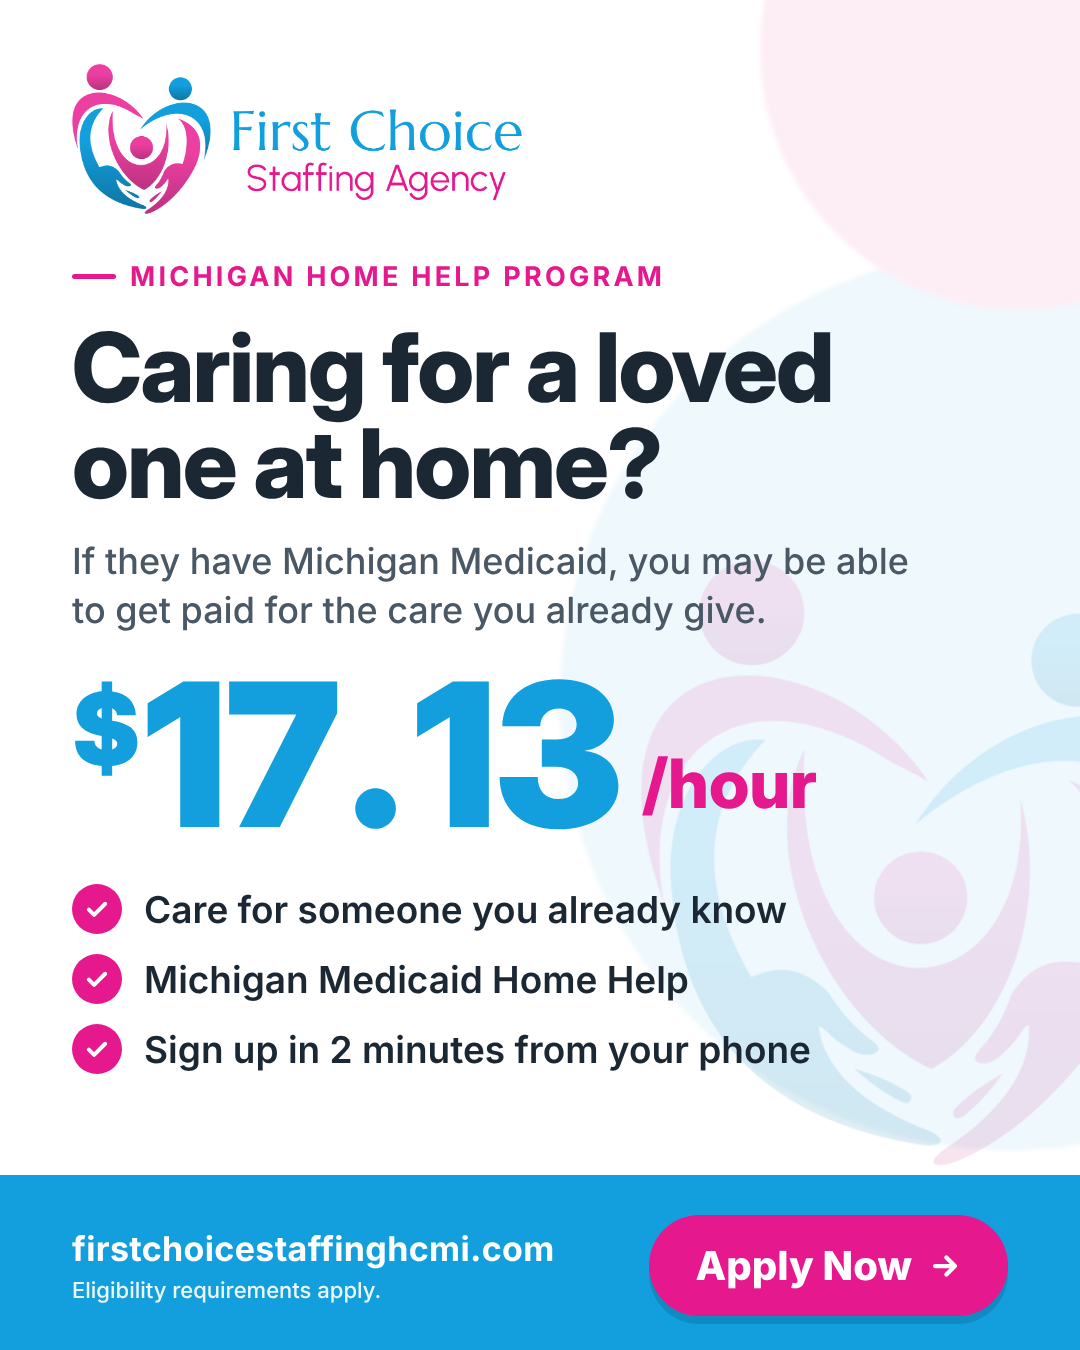
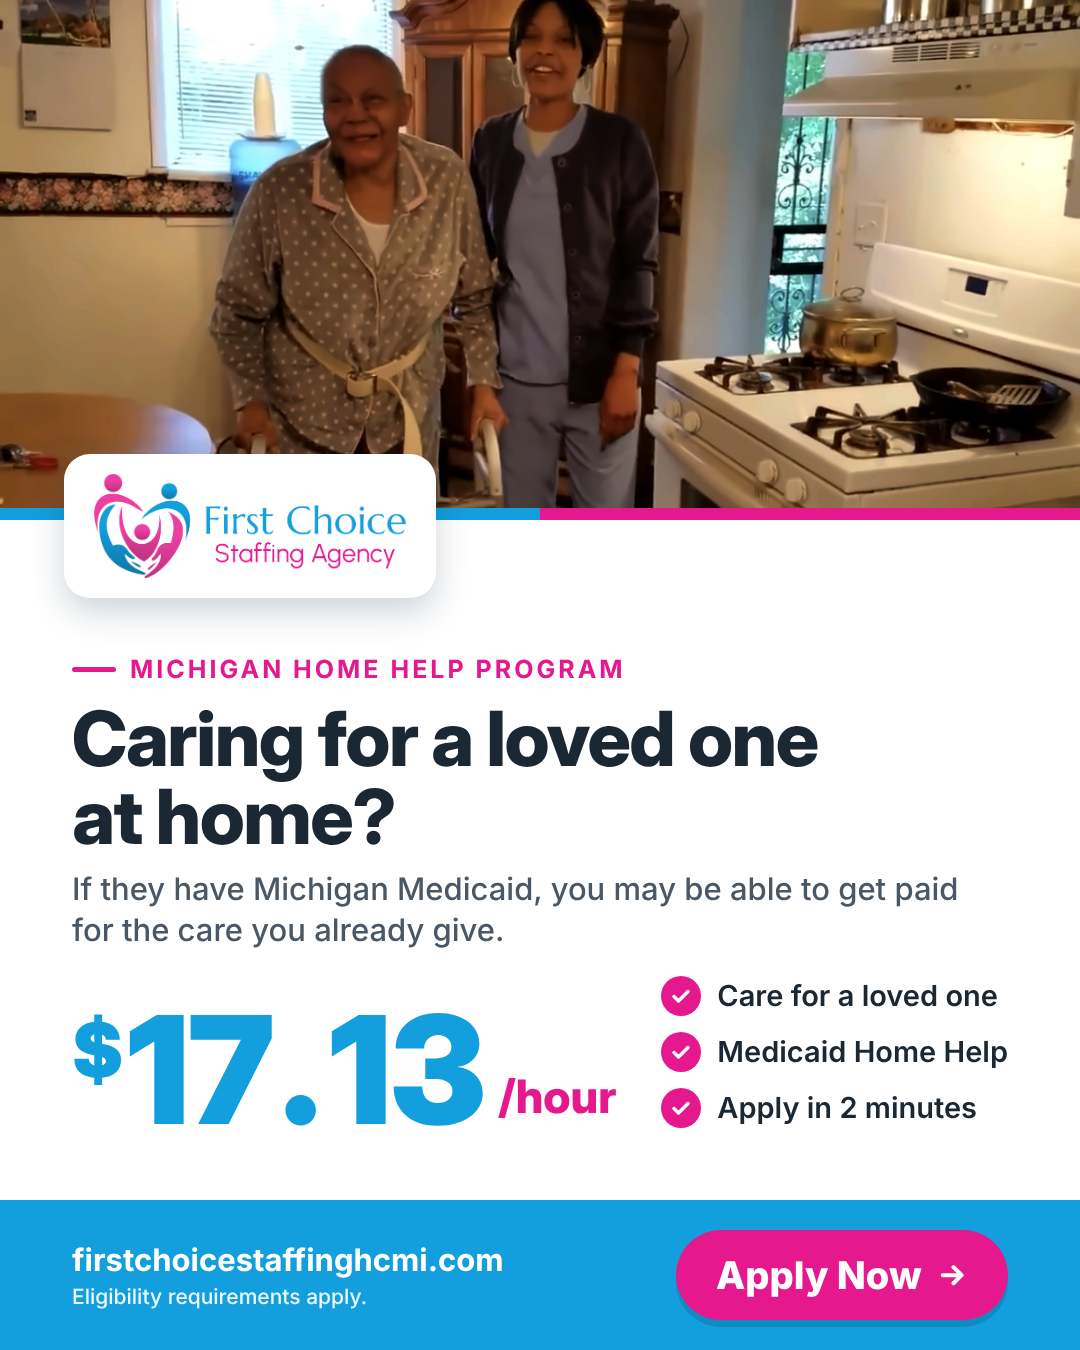
Add enhanced caregiver photo to feed and story ads
Claude-Session: https://claude.ai/code/session_01EcXwQxA6uLpaQryB1LdpUD

diff --git a/FirstChoice_Caregiver_Ad/build/ad.html b/FirstChoice_Caregiver_Ad/build/ad.html
@@ -3,79 +3,98 @@
 <head>
 <meta charset="utf-8">
 <style>
-  :root{
-    --blue:#139FDD; --blue-dark:#0B6FA0; --pink:#E5188E; --ink:#1B2833; --muted:#4A5866; --tint:#EEF8FD;
-  }
+  :root{--blue:#139FDD;--pink:#E5188E;--ink:#1B2833;--muted:#4A5866}
   *{box-sizing:border-box;margin:0;padding:0}
   body{background:#ddd;font-family:'Inter',sans-serif;color:var(--ink)}
   .ad{position:relative;overflow:hidden;background:#fff;display:flex;flex-direction:column}
   .feed{width:1080px;height:1350px}
   .story{width:1080px;height:1920px}
 
-  /* soft brand shapes */
-  .wash{position:absolute;border-radius:50%;filter:blur(2px)}
-  .wash.b{background:var(--tint)}
-  .wash.p{background:#FDEEF6}
-  .heart{position:absolute;opacity:.13}
+  .photo{position:relative;flex:none;background:url(photo_enhanced.jpg) no-repeat;background-size:cover}
+  .photo:after{content:"";position:absolute;left:0;right:0;bottom:0;height:12px;background:linear-gradient(90deg,var(--blue) 0 50%,var(--pink) 50% 100%)}
+  .logocard{position:absolute;left:64px;bottom:-78px;background:#fff;border-radius:26px;padding:20px 30px;box-shadow:0 14px 34px rgba(16,40,60,.20);z-index:2}
+  .logocard img{display:block}
 
-  .top{position:relative;padding:64px 72px 0}
-  .logo{height:150px;display:block}
-  .body{position:relative;padding:0 72px;flex:1;display:flex;flex-direction:column}
-  .eyebrow{display:inline-flex;align-items:center;gap:14px;font-weight:700;font-size:27px;letter-spacing:.12em;color:var(--pink);text-transform:uppercase}
+  .body{position:relative;flex:1;padding:0 72px;display:flex;flex-direction:column;justify-content:center}
+  .eyebrow{display:flex;align-items:center;gap:14px;font-weight:700;letter-spacing:.12em;color:var(--pink);text-transform:uppercase}
   .eyebrow:before{content:"";width:44px;height:5px;border-radius:3px;background:var(--pink)}
-  h1{font-family:'Inter Display','Inter',sans-serif;font-weight:800;font-size:96px;line-height:1.0;letter-spacing:-.02em;margin-top:26px;color:var(--ink)}
-  .sub{font-size:36px;line-height:1.35;color:var(--muted);margin-top:26px;max-width:860px;font-weight:500}
-  .pay{display:flex;align-items:flex-end;gap:22px;margin-top:34px}
-  .pay .lead{font-weight:700;font-size:32px;color:var(--ink);text-transform:uppercase;letter-spacing:.06em;line-height:1.15;padding-bottom:34px}
-  .amt{font-family:'Inter Display','Inter',sans-serif;font-weight:900;font-size:200px;line-height:.86;letter-spacing:-.01em;color:var(--blue)}
+  h1{font-family:'Inter Display','Inter',sans-serif;font-weight:800;line-height:1.02;letter-spacing:-.02em;color:var(--ink)}
+  .sub{color:var(--muted);font-weight:500;line-height:1.3}
+  .row{display:flex;align-items:center;justify-content:space-between;gap:30px}
+  .pay{display:flex;align-items:flex-end;gap:14px}
+  .amt{font-family:'Inter Display','Inter',sans-serif;font-weight:900;line-height:.86;letter-spacing:-.01em;color:var(--blue)}
   .amt sup{font-size:.5em;vertical-align:.62em;margin-right:4px;letter-spacing:0}
   .amt .dot{margin:0 .07em 0 .05em}
-  .per{font-family:'Inter Display','Inter',sans-serif;font-weight:800;font-size:58px;color:var(--pink);padding-bottom:16px}
-  ul{list-style:none;margin-top:44px;display:grid;gap:20px}
-  li{display:flex;align-items:center;gap:22px;font-size:37px;font-weight:600;color:var(--ink)}
-  li i{flex:none;width:50px;height:50px;border-radius:50%;background:var(--pink);display:grid;place-items:center}
-  li i svg{width:28px;height:28px}
+  .per{font-family:'Inter Display','Inter',sans-serif;font-weight:800;color:var(--pink)}
+  ul{list-style:none;display:grid}
+  li{display:flex;align-items:center;gap:16px;font-weight:600;color:var(--ink)}
+  li i{flex:none;border-radius:50%;background:var(--pink);display:grid;place-items:center}
+  li i svg{width:60%;height:60%}
 
-  .band{position:relative;background:var(--blue);color:#fff;padding:40px 72px 34px;display:flex;align-items:center;justify-content:space-between;gap:30px}
-  .band .site{font-size:34px;font-weight:700;letter-spacing:.01em}
-  .band .note{font-size:22px;font-weight:500;opacity:.92;margin-top:8px}
-  .btn{flex:none;background:var(--pink);color:#fff;font-weight:800;font-size:40px;padding:26px 46px;border-radius:999px;display:flex;align-items:center;gap:16px;box-shadow:0 8px 0 rgba(0,0,0,.12)}
-  .btn svg{width:34px;height:34px}
+  .band{flex:none;background:var(--blue);color:#fff;display:flex;align-items:center;justify-content:space-between;gap:30px}
+  .band .site{font-weight:700}
+  .band .note{font-weight:500;opacity:.92;margin-top:6px}
+  .btn{flex:none;background:var(--pink);color:#fff;font-weight:800;border-radius:999px;display:flex;align-items:center;gap:14px;box-shadow:0 7px 0 rgba(0,0,0,.12)}
+  .btn svg{width:.85em;height:.85em}
 
-  /* story tweaks: keep top ~220px and bottom ~280px clear of app UI */
-  .story .top{padding-top:180px}
-  .story .logo{height:170px}
-  .story h1{font-size:108px;margin-top:30px}
-  .story .sub{font-size:40px;margin-top:30px;max-width:950px}
-  .story .pay{margin-top:44px}
-  .story .amt{font-size:236px}
-  .story .amt .dot{margin:0 .07em 0 .05em}
-  .per{font-size:68px}
-  .story ul{margin-top:52px;gap:26px}
-  .story li{font-size:41px}
-  .story .band{flex-direction:column;align-items:flex-start;padding:48px 72px 230px;gap:30px}
-  .story .btn{font-size:48px;padding:32px 56px}
+  /* ---------- feed 1080x1350 ---------- */
+  .feed .photo{height:520px;background-position:center 28%}
+  .feed .logocard img{height:104px}
+  .feed .body{padding-top:96px;padding-bottom:28px}
+  .feed .eyebrow{font-size:25px}
+  .feed h1{font-size:76px;margin-top:16px;max-width:760px}
+  .feed .sub{font-size:31px;margin-top:14px}
+  .feed .row{margin-top:26px;align-items:flex-end}
+  .feed .amt{font-size:150px}
+  .feed .per{font-size:46px;padding-bottom:10px}
+  .feed ul{gap:16px;padding-bottom:6px}
+  .feed li{font-size:29px;white-space:nowrap}
+  .feed li i{width:40px;height:40px}
+  .feed .band{padding:30px 72px 30px}
+  .feed .band .site{font-size:31px}
+  .feed .band .note{font-size:21px}
+  .feed .btn{font-size:38px;padding:22px 40px}
+
+  /* ---------- story 1080x1920 (keep top ~220px / bottom ~260px free of key content) ---------- */
+  .story .photo{height:720px;background-position:38% 30%}
+  .story .logocard{bottom:-86px}
+  .story .logocard img{height:118px}
+  .story .body{padding-top:118px;padding-bottom:20px;justify-content:flex-start}
+  .story .eyebrow{font-size:28px}
+  .story h1{font-size:96px;margin-top:20px}
+  .story .sub{font-size:38px;margin-top:20px}
+  .story .row{margin-top:34px;flex-direction:column;align-items:flex-start;gap:34px}
+  .story .amt{font-size:200px}
+  .story .per{font-size:60px;padding-bottom:14px}
+  .story ul{gap:20px}
+  .story li{font-size:38px}
+  .story li i{width:48px;height:48px}
+  .story .band{padding:40px 72px 250px}
+  .story .band .site{font-size:32px}
+  .story .band .note{font-size:22px}
+  .story .btn{font-size:42px;padding:26px 46px}
 </style>
 </head>
 <body>
 <template id="content">
-  <div class="wash b" style="width:900px;height:900px;right:-380px;top:250px"></div>
-  <div class="wash p" style="width:520px;height:520px;right:-200px;top:-210px"></div>
-  <img class="heart" src="icon.png">
-  <div class="top"><img class="logo" src="logo.png" alt="First Choice Staffing Agency"></div>
+  <div class="photo">
+    <div class="logocard"><img src="logo.png" alt="First Choice Staffing Agency"></div>
+  </div>
   <div class="body">
-    <div style="margin-top:46px" class="eyebrow">Michigan Home Help Program</div>
+    <div class="eyebrow">Michigan Home Help Program</div>
     <h1>Caring for a loved one at home?</h1>
     <p class="sub">If they have Michigan Medicaid, you may be able to get paid for the care you already give.</p>
-    <div class="pay">
-      <div class="amt"><sup>$</sup>17<span class="dot">.</span>13</div>
-      <div class="per">/hour</div>
+    <div class="row">
+      <div class="pay">
+        <div class="amt"><sup>$</sup>17<span class="dot">.</span>13</div>
+        <div class="per">/hour</div>
+      </div>
+      <ul>
+        <li><i><svg viewBox="0 0 24 24" fill="none" stroke="#fff" stroke-width="3.4" stroke-linecap="round" stroke-linejoin="round"><path d="M5 12.5l4.5 4.5L19 7.5"/></svg></i>Care for a loved one</li>
+        <li><i><svg viewBox="0 0 24 24" fill="none" stroke="#fff" stroke-width="3.4" stroke-linecap="round" stroke-linejoin="round"><path d="M5 12.5l4.5 4.5L19 7.5"/></svg></i>Medicaid Home Help</li>
+        <li><i><svg viewBox="0 0 24 24" fill="none" stroke="#fff" stroke-width="3.4" stroke-linecap="round" stroke-linejoin="round"><path d="M5 12.5l4.5 4.5L19 7.5"/></svg></i>Apply in 2 minutes</li>
+      </ul>
     </div>
-    <ul>
-      <li><i><svg viewBox="0 0 24 24" fill="none" stroke="#fff" stroke-width="3.4" stroke-linecap="round" stroke-linejoin="round"><path d="M5 12.5l4.5 4.5L19 7.5"/></svg></i>Care for someone you already know</li>
-      <li><i><svg viewBox="0 0 24 24" fill="none" stroke="#fff" stroke-width="3.4" stroke-linecap="round" stroke-linejoin="round"><path d="M5 12.5l4.5 4.5L19 7.5"/></svg></i>Michigan Medicaid Home Help</li>
-      <li><i><svg viewBox="0 0 24 24" fill="none" stroke="#fff" stroke-width="3.4" stroke-linecap="round" stroke-linejoin="round"><path d="M5 12.5l4.5 4.5L19 7.5"/></svg></i>Sign up in 2 minutes from your phone</li>
-    </ul>
   </div>
   <div class="band">
     <div>
@@ -92,14 +111,7 @@
 
 <script>
   const t=document.getElementById('content');
-  for(const id of ['feed','story']){
-    const el=document.getElementById(id);
-    el.appendChild(t.content.cloneNode(true));
-    const h=el.querySelector('.heart');
-    if(id==='feed'){h.style.cssText+='width:560px;right:-120px;top:560px';}
-    else{h.style.cssText+='width:640px;right:-150px;top:840px';
-      el.querySelectorAll('.wash')[0].style.top='520px';}
-  }
+  for(const id of ['feed','story']) document.getElementById(id).appendChild(t.content.cloneNode(true));
 </script>
 </body>
 </html>
